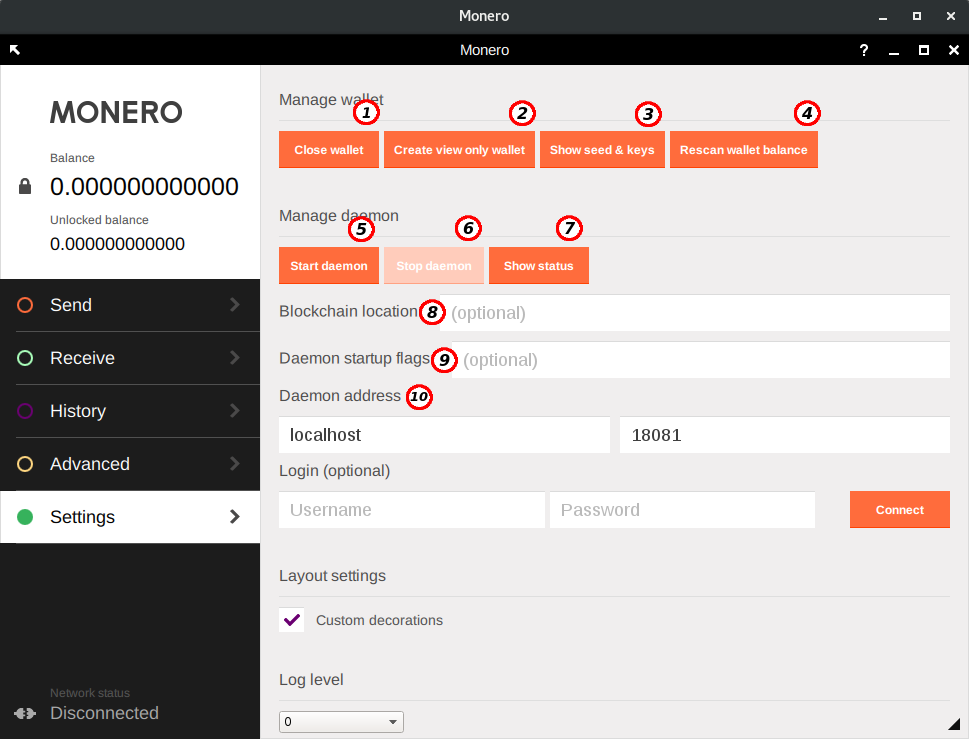
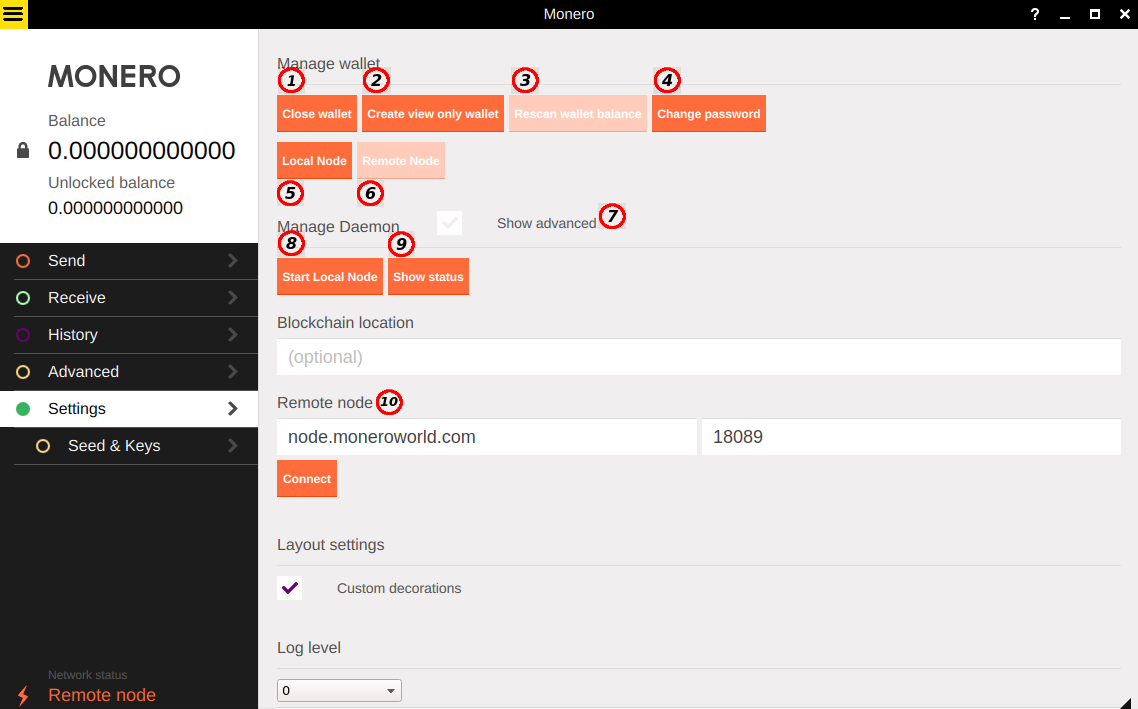
update guide

diff --git a/GUI-tutorial.md b/GUI-tutorial.md
@@ -1,37 +1,46 @@
 # Preparation
-When launching `monero-wallet-gui` on Windows, make sure your antivirus doens't block the program and remember to give the wallet permissions to connect to the network (a window asking for permissions will popup the first time you start the wallet)
+When launching `monero-wallet-gui` on Windows, make sure your antivirus doesn't block the program and remember to give the wallet permissions to connect to the network (a window asking for permissions will popup the first time you start the wallet).
+
+![win firewall check](/media/win-firewall-check.png)
 
 # 1. Choose a language
-![Language](/media/language.png)
-After extracting the package click on `monero-wallet-gui.exe` you'll see a list of available languages, click on the one of your choice, then go to the next step.
+![Language](/media/language_new.png)
+
+After extracting the package click on `monero-wallet-gui` you'll see a list of available languages, click on the one of your choice and go to the next step.
 
 # 2. Create a Wallet
 ![welcome](/media/welcome.png)
+
 On this page you can choose between three options:
 
-**Create a new wallet:** Start the procedure to make a new [wallet](https://getmonero.org/resources/moneropedia/wallet.html) from scratch. Choose this option if it's the first time you are creating a wallet.
-**Restore wallet from keys or mnemonic seed:** Click here if you want to recover a pre-existent wallet using the mnemonic seed or the keys (This is also the option for creating a 'watch-only wallet')
-**Open a wallet from file:** Choosing this option you will have to select the file in the ".keys" format from a previus wallet
-check *testnet* if you are going to make tests and not using the main net
+**(1) Create a new wallet:** Start the procedure to make a new [wallet](https://getmonero.org/resources/moneropedia/wallet.html) from scratch. Choose this option if it's the first time you are creating a wallet.    
+**(2) Restore wallet from keys or mnemonic seed:** Click here if you want to recover a pre-existing wallet using the mnemonic seed or the keys (this is also the option for creating a view-only wallet).    
+**(3) Open a wallet from file:** Choosing this option you will have to select the file in the ".keys" format from a previous wallet.    
+**(4) Testnet:** Check *testnet* if you are going make tests not using the main network.    
 
 ## 2.1. Create new wallet
 ![new](/media/create_new.png)
-Now give a name to your wallet (in this example is *testname*), write down your [mnemonic seed](https://getmonero.org/resources/moneropedia/mnemonicseed.html) and keep it safe. Your seed is the master key of your wallet, you can use it to recovery your funds.
+
+Now give a name to your wallet (in this example `testname` is used). **Write down your [mnemonic seed](https://getmonero.org/resources/moneropedia/mnemonicseed.html) and keep it safe. Your seed is the master key of your wallet, you can use it to recovery your funds.**
 
 ### 2.1.1 Add a password
 ![add password](/media/password.png)
-Add a strong password to protect your wallet
+
+Add a strong password to protect your wallet.
 
 ### 2.1.2 Daemon Settings
 ![daemon settings](/media/daemon_settings.png)
-Here you can choose if you are going to run a Full node or use a remote one. if you want to use a remote node you need to put the hostname or IP address of the node and its port. Choosing a remote node you have the optional possibility to add a personalized path for your blockchain.
+
+Here you can choose if you are going to run a full node or use a remote one. If you want to use a remote node you need to put the hostname or IP address of the node and its port. Choosing a remote node, you have the optional possibility to add a personalized path for your blockchain.
 
 ### 2.1.4 Run a full node
-When the windows closes you will be prompted to the settings menu, but first, you will see a window like this popping up
-![sync](/media/sync.png)    
-If you want to create a normal wallet using your personal full node, you don't need to do anything, let the countdown finish, then Wait untill your node is fully synced.
+Upon completion of the setup you will be prompted to the settings menu, but first you will see a window like this popping up:
 
-if you need some special settings like set up a view-only wallet or add manually the blockchain, go to section III: "Settings"
+![sync](/media/starting-local-node.png)
+
+If you want to create a normal wallet using your personal full node, you don't need to do anything, let the countdown finish, then wait until your node is fully synced.
+
+If you need some special settings like set up a view-only wallet or add the blockchain manually, go to section *3: Settings* in this guide.
 
 
 ## 2.2 Restore Wallet from keys or mnemonic seed
@@ -39,115 +48,120 @@ if you need some special settings like set up a view-only wallet or add manually
 
 ### 2.2.1 Restoring from seed
 ![restore from seed](/media/restore_seed.png)
-This is the easiest way to recover your wallet, you only need to put a name for it [1], paste your seed made of 25 words in the correct field [2] and select the destination folder of the wallet [3].
+
+This is the easiest way to recover your wallet. You only need to put the following information:
+
+**(1)** A name for it.    
+**(2)** Paste your seed made of 25 words.    
+**(3)** Select the destination folder of the wallet.    
 
 ### 2.2.2 Restoring from keys
 ![restore from key](/media/restore_key.png)
+
 Restoring from keys is quite easy and can be extremely useful, especially if you are moving your wallet from online services like MyMonero. you need:
-+ *Account Address* - The address of the wallet you are recovering
-+ *View key* - Your private view key (needed to be able to check your funds)
-+ *Spend key* - your private spend key (needed to spend your funds)
-+ *Restore height* - This field is optional and let you specify a block height, so the wallet wallet doesn't have to scan the entire blockchain looking for your funds. For example, if your first transaction was included in block 1350000, insert in this field a sligtly lower height (like 1330000) so the wallet will start scanning from there, saving you some time.    
+
+**Account address:** The address of the wallet you are recovering.    
+**View key:** Your private view key (needed to be able to check your funds).    
+**Spend key:** Your private spend key (needed to spend your funds).    
+**Restore height:** This field is optional, it lets you specify a block height so the wallet wallet doesn't have to scan the entire blockchain looking for your funds. For example, if your first transaction was included in block `1350000`, insert in this field a slightly lower height (eg. `1330000`) so the wallet will start scanning from there, saving you some time.    
+
 When everything is ready click the right arrow and then the "Use Monero" button.
 
-
 ## 2.3. Open a wallet from file
-After clicking this option a window will popup. Just navigate to your file with the extension *.keys*, load it then click the right arrow.
+After clicking this option a window will pop up. Just navigate to your file with the extension *.keys*, select it and click the right arrow.
 
 # 3. Settings
-
 ![settings](/media/settings.png)
-After creating/recovering your wallet, you will be prompted to the "settings page". From here you have the possibility tu personalize your configurations according to your personal use.
 
-**(1)** Close your wallet (gives the possibility to choose another language)    
-**(2)** Insert a name and a passowrd if you want to create a view-only wallet    
-**(3)** Make a complete rescan of your spent outputs    
-**(4)** Change the password of your wallet    
-**(5)** Manage settings for your local node    
-**(6)** Manage settings for your remote node    
-**(7)** Show advanced options ('Local daemon startup flags' and 'node login', in case the remote node requires autentication)    
-**(8)** Start your local node    
-**(9)** Show daemon status    
+After creating/recovering your wallet, you will be prompted to the "Settings" page. From here you have the possibility to personalize your configurations.
 
-## Run a remote node
-A remote node is the fastest way to start a wallet, but you won't have all the benefits of running a full local node. You also need to specify the address of the remote daemon
+**(1)** Close your wallet (gives the possibility to choose another language).    
+**(2)** Insert a name and a password if you want to create a view-only wallet.    
+**(3)** Make a complete rescan of your spent outputs.    
+**(4)** Change the password of your wallet.    
+**(5)** Manage settings for your local node.    
+**(6)** Manage settings for your remote node.    
+**(7)** Show advanced options ('Local daemon startup flags' and 'node login', in case the remote node requires authentication).    
+**(8)** Start your local node.    
+**(9)** Show daemon status.    
+**(10)** Remote node address and port.    
 
-To run a remote node you need to use somebody else's daemon, this means you need to communicate with it. Add the remote daemon address and port (10) and click connect (e.g many use the remote nodes available at [moneroworld.com](https://moneroworld.com/#nodes). in this case the configuration would be `node.moneroworld.com` `18089`). Click on "connect" and your wallet will start syncing, this takes some minutes. To check the progresses click on "Show status"(7). 
+## 3.1. Use a remote node
+Using a remote node is the fastest way to start a wallet, but you won't have all the benefits of running a full local node. You also need to specify the address of the remote daemon.
 
-## Create a view-only wallet
+To use a remote node you need to use somebody else's daemon, this means you need to communicate with it. Add the remote daemon address and port (10) and click connect. A collection of remote nodes is available at [moneroworld.com](https://moneroworld.com/#nodes) (in this example address `node.moneroworld.com` and port `18089` are used). Click on "connect" and your wallet will start syncing, this takes some minutes. To check the progresses click on "Show status" (9) or check in the lower left corner.
+
+## 3.2. Create a view-only wallet
 Click on (2), you will be asked to give a name and a location for your view-only wallet. Proceed setting a strong password then click the right arrow. A "Success" message will signal the correct creation of the view-only wallet.
 
-## Add the blockchain manually
+## 3.3. Add the blockchain manually
 
-## Other settings
-Close Wallet: This closes your wallet.
-
-### Show seed & keys
-
+## 3.4. Show seed & keys
 This shows your wallets mnemonic seed as well as your secret view key, public view key, secret spend key and public spend key. These are outlined below.
 
-### Public / Secret view key
-These keys allow you and others to view your Monero wallet incoming transactions (not outgoing). Only give your public view key NOT your private view key to others. This is useful for auditing purposes. Your private view key is also used to ‘scan’ the blockchain to find funds sent to your address. Learn more.
+## 3.4.1. Mnemonic seed
+**DO NOT share your mnemonic seed with anyone. Store a copy securely.** The mnemonic seed is a 25 word phrase that contains all the information needed to view and spend funds. Learn more about [mnemonic seeds](https://getmonero.org/resources/moneropedia/mnemonicseed.html).
 
-### Public / Secret spend key
-These keys allow you to participate in ring signatures. The private key is used to sign a key image which is generated when a transaction happens and the public spend key is used by the network to verify the signature of the key image you generated. This is what prevents double-spend as the network enforces the rule that a key image can be spent only once. Learn more.
+### 3.4.2. Public / Secret view key
+Secret view keys allow you and others to view your Monero wallets incoming transactions (not outgoing). It is sometimes useful for auditing purposes to give your secret view key to a third party. The public spend key is used for stealth address creation. Learn more about [view keys](https://getmonero.org/resources/moneropedia/viewkey.html).
 
-### Re-scan wallet balance
+### 3.4.3. Public / Secret spend key
+**DO NOT share your secret spend key with anyone. The secret spend key is used to sign transactions and should be regarded with the same security as your mnemonic seed.** The public spend key is used by the network to verify the signature of the key image you generated. This is what prevents double-spends as the network enforces the rule that a key image can be spent only once. Learn more about [spend keys](https://getmonero.org/resources/moneropedia/spendkey.html).
+
+### 3.4.4. Re-scan wallet balance
 This scans the Monero blockchain for any funds that belong to you.
 
 
 # 4. Send some Moneroj
-![send](https://cdn-images-1.medium.com/max/800/1*hB-YNycALp2uwLLZ6geoZw.png)
-After clicking on *Send*, on the left menu, you need to specify
+![send](/media/send.png)
+
+After clicking the "Send" tab on the left menu, you need to specify the following:
 
 **Amount:** This is how much Monero you want to send.
 
-**Transaction priority:** This is the priority your transaction will get to be put into the next Monero blockchain block by miners. The more you pay the more likely you get included in the next block meaning you transaction will go through faster — I recommended just staying with default or even using the slow option if you aren’t in a rush.
+**Transaction priority:** This is the priority your transaction will get in the mempool of transactions waiting to be into a block on the Monero blockchain. The more you pay the more likely you will get included in the next block. Which means that your transaction will verify faster. Currently just staying with the default or even using the slow option is likely to get you into the next block.
 
-**Address:** This is where you put the Monero address you are sending to. I would recommend copying and pasting all addresses to prevent errors.
+**Address:** This is where you put the Monero address you are sending to. The best practice is to copy and paste addresses to prevent errors, but visually double check the pasted address is correct.
 
-**Payment ID:** The payment ID is an identity attached to the transaction you are about to send. Often when sending to say an exchange they will give you a payment ID that you must include here. This is so they know that the Monero they get is from you.
+**Payment ID:** The payment ID is an identity attached to the transaction you are about to send. Often when sending to an exchange they will give you a payment ID that you must include here. This is so they know which incoming transaction is from you.
 
 *If you forget to add your payment ID you should still be able to recover your funds by contacting the party you sent Monero to.*
 
 **Description:** This is for your record keeping. You can add some information regarding your transaction for future reference.
 
-**Privacy level (ringsizes):** This setting increases the size of the ring signatures your transaction is a part of. Higher ring sizes ‘may’ increase privacy of the transaction but also increases the fees. I would recommend leaving this as the default 5. Learn more about ring signatures here.
+**Privacy level (ringsize):** This setting increases the size of the ring signatures in your transaction. Higher ring sizes *may* increase privacy of the transaction but it also increases the fees. I would recommend leaving this as the default 5. Learn more about [ring signatures](https://getmonero.org/resources/moneropedia/ringsignatures.html).
 
-**Sweep unmixable:** This allows you to get rid of outputs in your wallet which have strange amounts like 0.000006839355, and are unmovable without combining them with another output. You will more than likely never need to use this feature. Learn more here.
+**Sweep unmixable:** This allows you to get rid of outputs in your wallet which have strange amounts like `0.000006839355` which are unmovable without combining them with another output. You will more than likely never need to use this feature.
 
-**Sign tx file:** This button allows you to cryptographically sign a file with your private key. This is useful if you want to verify a transaction on an offline wallet. Learn more here.
+**Sign tx file:** This button allows you to cryptographically sign a file with your private key. This is useful if you want to verify a transaction on an offline wallet.
 
-### Address Book
+## 4.1. Address Book
 This section lets you save users you frequently transact with. Addresses you put in your address book can be easily copied over when sending a transaction.
 
 # 5. Receive Moneroj
-![receive](https://cdn-images-1.medium.com/max/800/1*6Mq_O3aptEo1n8PfeQMMcg.png)
-To receive Moneroj, you need to give at least your address, but you can also specify
+![receive](/media/receive.png)
 
-**Payment ID:** If you want to know who sent you what you can generate and give payment IDs to individuals so you know who sent you Monero.
+To receive Moneroj you need to give your address. Best practice is to create a new address each time you receive. Once you click 'Create new address' you will be prompted to enter an optional label for your records. You may also specify:
 
-**Integrated address:** This is an address that combines your address and payment ID into one. This can be used instead of using the address and payment ID. Whether address + payment ID or intergrated address is used differs from site to site. Payment IDs and intergrated addresses will be obsolete once Monero sub-addresses are live.
+**Amount:** The amount of Monero you would like to receive.
 
-**Amount:** How much Monero you are wanting to receive.
+**QR code:** This is a QR code that has your selected address, and optionally the amount, embedded into it. It can be used as a way to give others your Monero address by simply scanning the code.
 
-**QR code:** This is a QR code that has your wallet address embedded into it. It can be used as a way to give others your Monero address by simplying scanning the code.
+# 6. Advanced features
 
-# Advanced features
+## 6.1. Solo mining
+![mining](/media/mining.png)
 
-## Binaries verification
-
-## Solo mining
-![mining](https://cdn-images-1.medium.com/max/800/1*DLTdjQ4Bb9G-46KwdbYMSg.png)
 This is a one click CPU miner that is embedded into the GUI. Having this on helps secure the Monero network. The more people that mine, the harder it is for the network to be attacked.
 
-It is very unlikely that you will receive awards from doing this, but it is not outside the realm of possibility.
+It is very unlikely that you will receive Moneroj from doing this, but it is not outside the realm of possibility.
 
-## Check payment
-![Check payment](https://cdn-images-1.medium.com/max/800/1*5Xy_ZWSdR5PJqUjg9MVrkA.png)
+## 6.2. Check payment
+![Check payment](/media/prove-check.png)
+
 When you send money to a party who then disputes the payment was made, you need to be able to prove the payment was made.
 
-With Bitcoin, this is typically done by looking up the transaction ID, where the origin and destination addresses are shown, along with the amount transacted.
+With Bitcoin this is typically done by looking up the transaction ID where the origin addresses, destination addresses, and the amount transacted transacted are all visible.
 
 Monero, however, is private: that information is not available publicly on the blockchain. The steps are therefore a bit more involved.
 
@@ -161,23 +175,27 @@ Below is what should appear once entering the valid payment details.
 
 ![payment details](https://cdn-images-1.medium.com/max/800/1*3Y1cYmbjwZeJjhADBstANw.png)
 
-## Sign/Verify
-![sign/verify](https://cdn-images-1.medium.com/max/800/1*0Penmx3aAzaUNrznilXTyA.png)
-In this section you can sign a message or file with your private key so that it can be used to show you have ownership of your Monero public key to others. This is a great want to prove accountability without having to sacrifice anonymity.
+## 6.3. Sign/Verify
+![sign/verify](/media/sign-verify.png)
 
-### Sign a message or file contents with your address
+In this section you can sign a message or file with your private key. The signed message or file can be used to prove you have ownership of your Monero public key. This is a way to prove accountability without having to sacrifice anonymity.
 
-**Message or file:** This is where you will write your message (top box) or attach a file (second box). Upon clicking on ‘sign’ you will generate a signature.
+This is also where you can verify a signed message or file.
 
-**Signature:** This is where you unique signature will appear once you click sign. This is linked to your private key / message or file you entered and will be used to verify a message or file that either you (for testing purposes), or others, create.
+### 6.3.1. Sign a message or file contents with your address
 
-### Verify a message or file signature from an address:
+**Message or file:** This is where you will write your message (top box) or attach a file (second box). Upon clicking on "sign" you will generate a signature.
 
-**Message or file:** This is where you will put a message or file that has been signed with a signature.
+**Signature:** This is where your unique signature will appear once you click "sign". This is linked to your private key and the message or file you entered. It will be given as proof along with the message or file which was signed.
+
+### 6.3.2. Verify a message or file signature from an address:
+
+**Message or file:** This is where you will put a message or file that has been signed.
 
 **Signing address:** This is where you will put the public Monero address you are wanting to verify.
 
-**Signature:** This is where you paste the signature that the other user generated and gave to you.
+**Signature:** This is where you will put the signature.
 
-Once all the required information has been inputted click verify. You should get a notification such as below if the signature is good.
-![good signature](https://cdn-images-1.medium.com/max/800/1*O_2t5bM3jn5wj8aN3i4P5Q.png)
+Once all the required information has been inputted click "verify". You should get a notification like this if the signature is good:
+
+![good signature](/media/good-sig.png)
